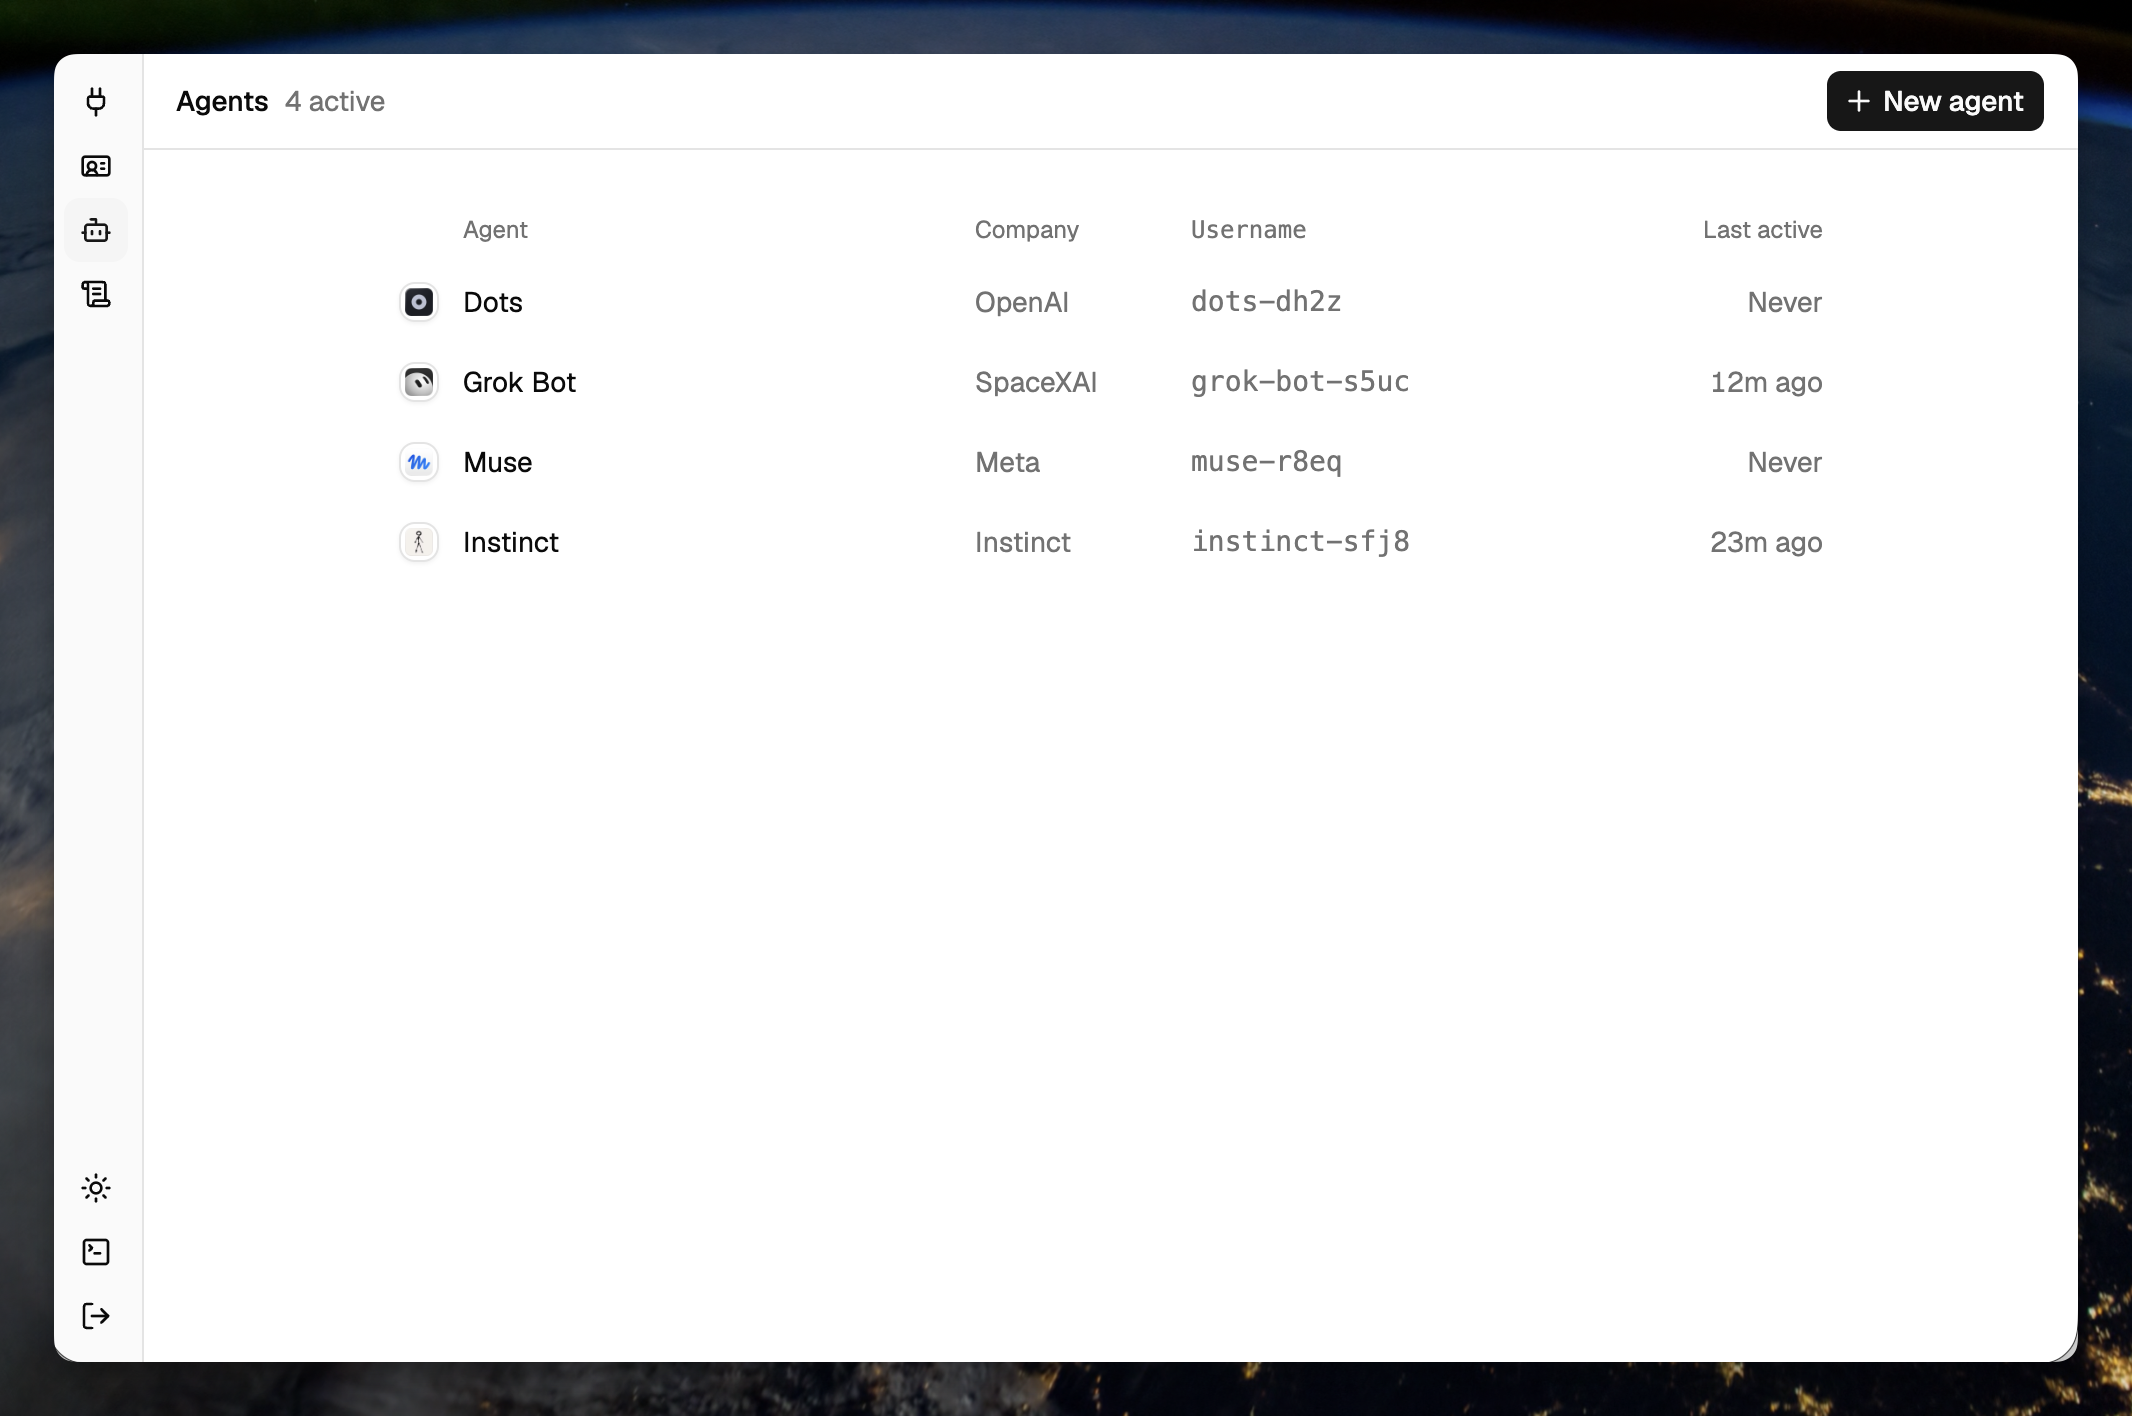
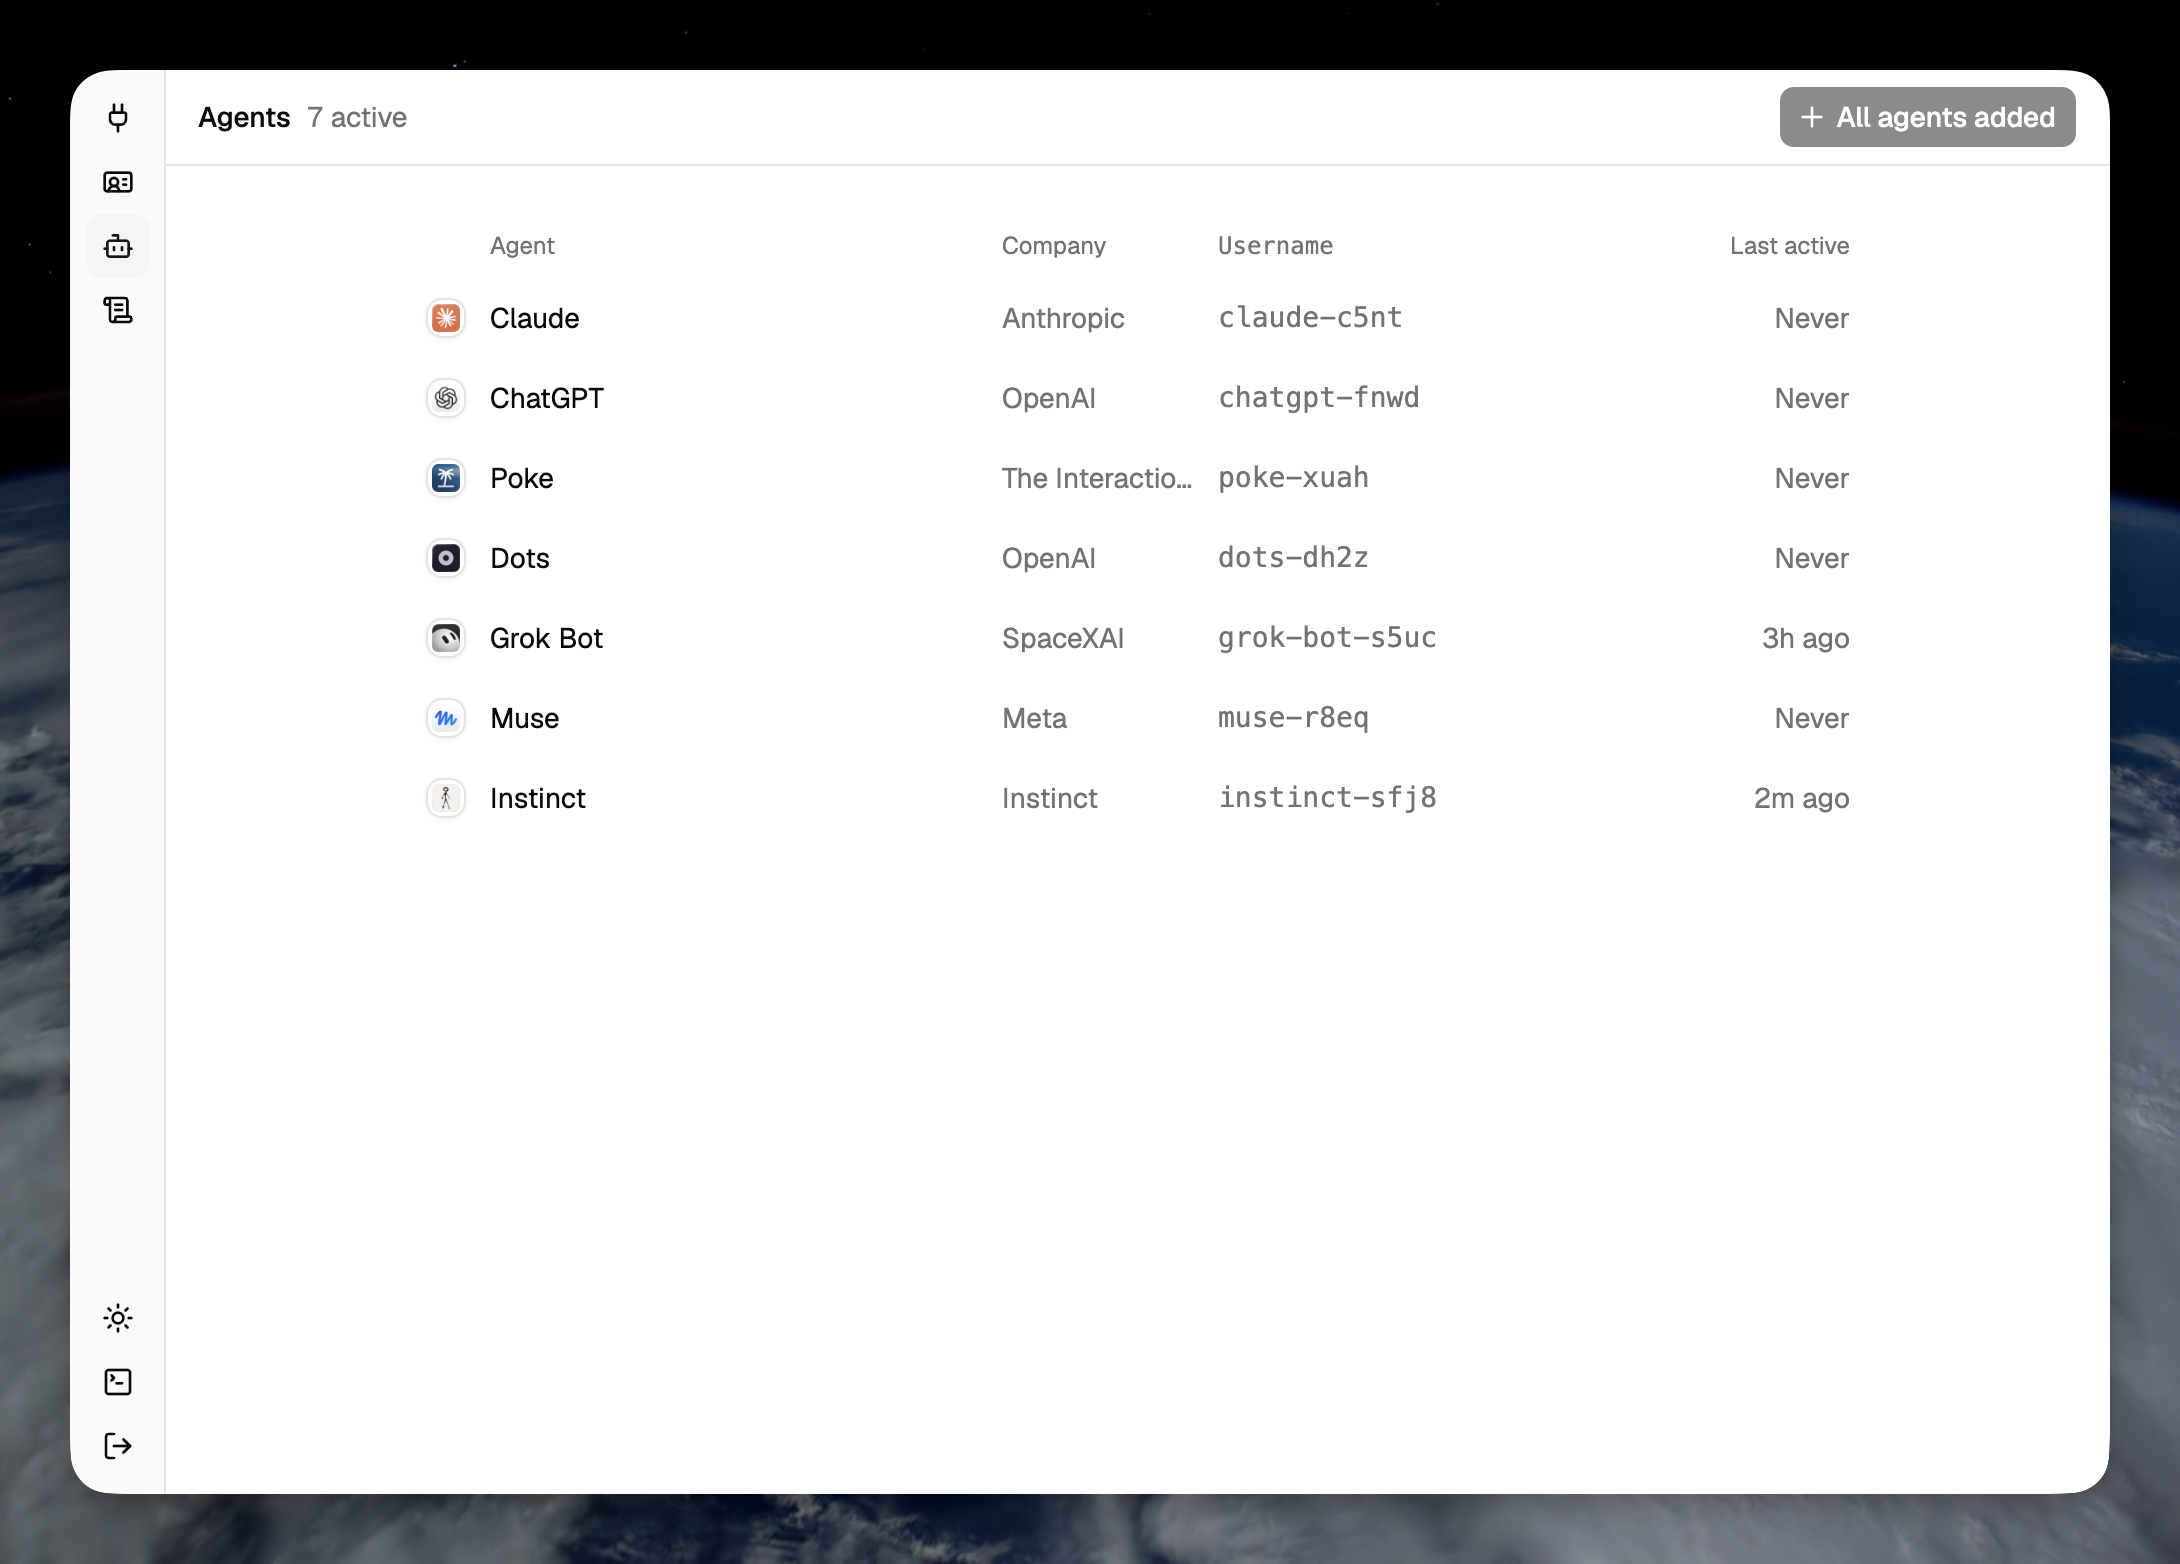
docs: add product screenshots to README (#58)

diff --git a/README.md b/README.md
@@ -68,3 +68,7 @@ their full private context or silently expanding what an agent may do.
 </table>
 
 <img src="docs/assets/agent-dashboard.png" alt="Personal Agent Proxy agents dashboard">
+
+<img src="docs/assets/connections-dashboard.png" alt="Personal Agent Proxy connections dashboard">
+
+<img src="docs/assets/connection-permissions.png" alt="Personal Agent Proxy connection permissions">
